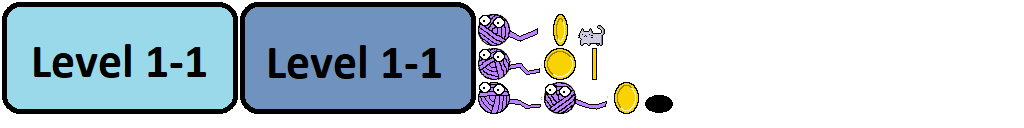
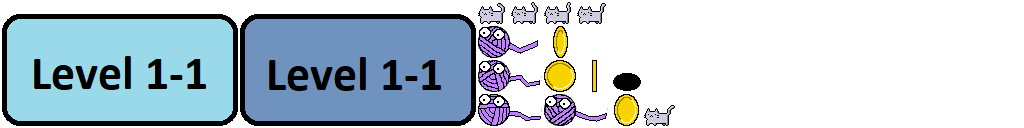
fixed box2d impassable bug and added cat idle animation

Changed region(s): [[0.0, 0.0, 0.6562, 1.0], [0.25, 0.3438, 0.4375, 0.7188], [0.0312, 0.3438, 0.2188, 0.7188]]

diff --git a/core/src/com/sandra/game/utils/box2D.java b/core/src/com/sandra/game/utils/box2D.java
@@ -1,11 +1,20 @@
 package com.sandra.game.utils;
 
+import com.badlogic.gdx.maps.MapObject;
+import com.badlogic.gdx.maps.objects.RectangleMapObject;
+import com.badlogic.gdx.maps.tiled.TiledMap;
+import com.badlogic.gdx.math.Vector2;
 import com.badlogic.gdx.physics.box2d.Body;
 import com.badlogic.gdx.physics.box2d.BodyDef;
 import com.badlogic.gdx.physics.box2d.FixtureDef;
 import com.badlogic.gdx.physics.box2d.PolygonShape;
 import com.badlogic.gdx.physics.box2d.World;
 import com.badlogic.gdx.physics.box2d.BodyDef.BodyType;
+
+/* 
+    Utility class for Box2D world implementations for levels.
+    @author Sandra Moen
+*/
 
 public class box2D {
 
@@ -15,8 +24,33 @@ public class box2D {
         this.b2d_world = b2d_world;
     }
 
-    public void set_world_bounds() {
+    public void set_world_impassables(TiledMap map) {
+        for (MapObject object : map.getLayers().get("impassable").getObjects().getByType(RectangleMapObject.class)) {
+            Vector2 position = new Vector2(((RectangleMapObject) object).getRectangle().getX() / Constants.PPM,
+                    ((RectangleMapObject) object).getRectangle().getY() / Constants.PPM);
+            float width = ((RectangleMapObject) object).getRectangle().getWidth() / Constants.PPM;
+            float height = ((RectangleMapObject) object).getRectangle().getHeight() / Constants.PPM;
 
+            BodyDef bdef = new BodyDef();
+            bdef.type = BodyType.StaticBody;
+            bdef.position.set(
+                position.x + width / 2,
+                position.y + height / 2
+            );
+
+            PolygonShape shape = new PolygonShape();
+            shape.setAsBox(width / 2, height / 2);
+            FixtureDef fdef = new FixtureDef();
+            fdef.shape = shape;
+            fdef.filter.categoryBits = Constants.B2D_BIT_WORLD;
+            fdef.filter.maskBits = Constants.B2D_BIT_CAT1S | Constants.B2D_YARN_BALLS;
+
+            Body world_lower = b2d_world.createBody(bdef);
+            world_lower.createFixture(fdef).setUserData(Constants.B2D_IDENTITY);
+        }
+    }
+
+    public void set_world_bounds() {
         // LOWER--------------------------------
 		BodyDef bdef = new BodyDef();
         bdef.type = BodyType.StaticBody;
@@ -74,10 +108,6 @@ public class box2D {
             (Constants.GAME_WIDTH + Constants.B2D_WORLD_BOUNDS_OFFSET) / Constants.PPM,
             (Constants.GAME_HEIGHT / 2) / Constants.PPM
         );
-
-        // bdef.position.set(Gdx.graphics.getWidth() + Constants.B2D_WORLD_BOUNDS_OFFSET / 2, Gdx.graphics.getHeight() / 2);
-
-        //shape.setAsBox(Constants.B2D_WORLD_BOUNDS_OFFSET, Gdx.graphics.getHeight());
 		fdef.shape = shape;
 		fdef.filter.categoryBits = Constants.B2D_BIT_WORLD;
 		fdef.filter.maskBits = Constants.B2D_BIT_CAT1S | Constants.B2D_YARN_BALLS;

diff --git a/core/src/com/sandra/game/screens/Level_1_1.java b/core/src/com/sandra/game/screens/Level_1_1.java
@@ -108,8 +108,8 @@ public class Level_1_1 implements Screen {
         map = new TmxMapLoader().load("levels/level1-1.tmx");
         mapRenderer = new OrthoCachedTiledMapRenderer(map, 1 / Constants.PPM, 8191); // 8191 is max
         mapRenderer.setView(camera);
-
-        create_world_boundaries();
+        
+        box2d.set_world_impassables(map);
 
         // Entities
         cat1s = new DelayedRemovalArray<Entity>();
@@ -128,32 +128,6 @@ public class Level_1_1 implements Screen {
         entities = new DelayedRemovalArray<Entity>();
         entities.addAll(cat1s);
         controls = new Controls(entities);
-    }
-
-    private void create_world_boundaries() {
-        for (MapObject object : map.getLayers().get("impassable").getObjects().getByType(RectangleMapObject.class)) {
-            Vector2 position = new Vector2(((RectangleMapObject) object).getRectangle().getX() / Constants.PPM,
-                    ((RectangleMapObject) object).getRectangle().getY() / Constants.PPM);
-            float width = ((RectangleMapObject) object).getRectangle().getWidth() / Constants.PPM;
-            float height = ((RectangleMapObject) object).getRectangle().getWidth() / Constants.PPM;
-
-            BodyDef bdef = new BodyDef();
-            bdef.type = BodyType.StaticBody;
-            bdef.position.set(
-                position.x + width / 2,
-                position.y + height / 2
-            );
-
-            PolygonShape shape = new PolygonShape();
-            shape.setAsBox(width / 2, height / 2);
-            FixtureDef fdef = new FixtureDef();
-            fdef.shape = shape;
-            fdef.filter.categoryBits = Constants.B2D_BIT_WORLD;
-            fdef.filter.maskBits = Constants.B2D_BIT_CAT1S | Constants.B2D_YARN_BALLS;
-
-            Body world_lower = b2d_world.createBody(bdef);
-            world_lower.createFixture(fdef).setUserData(Constants.B2D_IDENTITY);
-        }
     }
 
     private void populate_entity_from_map(String entity, DelayedRemovalArray<Entity> entity_list) {

diff --git a/core/src/com/sandra/game/entities/Cat1.java b/core/src/com/sandra/game/entities/Cat1.java
@@ -10,31 +10,34 @@ import com.badlogic.gdx.physics.box2d.FixtureDef;
 import com.badlogic.gdx.physics.box2d.PolygonShape;
 import com.badlogic.gdx.physics.box2d.World;
 import com.badlogic.gdx.physics.box2d.BodyDef.BodyType;
+import com.badlogic.gdx.utils.TimeUtils;
 import com.sandra.game.utils.Assets;
 import com.sandra.game.utils.Constants;
 import com.sandra.game.utils.Utils;
 
 public class Cat1 extends Entity {
-
     private World b2d_world;
+    private float animation_start_time;
 
     public Cat1(Vector2 position, World b2d_world) {
         render_position = position;
         velocity = new Vector2(0, 0);
         id = UUID.randomUUID().toString();
+        animation_start_time = TimeUtils.nanoTime();
         
         this.b2d_world = b2d_world;
         init_body();        
     }
 
     public void render(SpriteBatch batch) {
-        final TextureRegion region = Assets.instance.cat1Assets.cat1;
-        Utils.drawTextureRegion(batch, region, render_position, Constants.CAT1_CENTER);
+        float animation_time_seconds = Utils.secondsSince(animation_start_time);
+        TextureRegion region = Assets.instance.cat1Assets.cat1_animation.getKeyFrame(animation_time_seconds);
+        Utils.drawTextureRegion(batch, region, render_position); 
     }
 
     public void update(float delta) {
         if (body.getUserData() == "collision") {
-            body.setUserData(Constants.CAT1_SPRITE);
+            body.setUserData(Constants.CAT1_SPRITE_1);
             velocity.x = velocity.y = 0;
         }
         render_position.set(
@@ -67,7 +70,7 @@ public class Cat1 extends Entity {
 
 		this.body = b2d_world.createBody(bdef);
         this.body.setLinearDamping(Constants.ENTITIES_LINEAR_DAMPING);
-        this.body.createFixture(fdef).setUserData(Constants.CAT1_SPRITE);
+        this.body.createFixture(fdef).setUserData(Constants.CAT1_SPRITE_1);
     }    
 }
     

diff --git a/core/src/com/sandra/game/handlers/MyContactListener.java b/core/src/com/sandra/game/handlers/MyContactListener.java
@@ -20,16 +20,16 @@ public class MyContactListener implements ContactListener{
 		// System.out.println(TAG + ": fb, " + fb.getUserData());
 		
 		if(fa.getUserData() != null && fa.getUserData().equals(Constants.B2D_IDENTITY) &&		// world vs cat1
-				fb.getUserData() != null && fb.getUserData().equals(Constants.CAT1_SPRITE)) {
+				fb.getUserData() != null && fb.getUserData().equals(Constants.CAT1_SPRITE_1)) {
 			fb.getBody().setUserData("collision");
 		}
 
-		if(fa.getUserData() != null && fa.getUserData().equals(Constants.CAT1_SPRITE) &&		// cat1 vs hole
+		if(fa.getUserData() != null && fa.getUserData().equals(Constants.CAT1_SPRITE_1) &&		// cat1 vs hole
 				fb.getUserData() != null && fb.getUserData().equals(Constants.HOLE_SPRITE)) {
 			fa.getBody().setUserData("win_condition");
 		}
 
-		if(fa.getUserData() != null && fa.getUserData().equals(Constants.CAT1_SPRITE) &&		// coins vs cat1
+		if(fa.getUserData() != null && fa.getUserData().equals(Constants.CAT1_SPRITE_1) &&		// coins vs cat1
 				fb.getUserData() != null && fb.getUserData().equals(Constants.COIN_SPRITE_1)) {
 			fb.getBody().setUserData("remove_me");
 		}
@@ -39,7 +39,7 @@ public class MyContactListener implements ContactListener{
 			fb.getBody().setUserData("collision");
 		}
 
-		if(fa.getUserData() != null && fa.getUserData().equals(Constants.CAT1_SPRITE) &&		// cat vs yarn ball
+		if(fa.getUserData() != null && fa.getUserData().equals(Constants.CAT1_SPRITE_1) &&		// cat vs yarn ball
 				fb.getUserData() != null && fb.getUserData().equals(Constants.YARN_BALL_SPRITE_1)) {
 			fb.getBody().setUserData("collision");
 		}

diff --git a/core/src/com/sandra/game/utils/Assets.java b/core/src/com/sandra/game/utils/Assets.java
@@ -45,7 +45,9 @@ public class Assets implements Disposable, AssetErrorListener {
 	}
 
 	@Override
-	public void dispose() {assetManager.dispose();}
+	public void dispose() {
+        assetManager.dispose();
+    }
 
     public class ButtonsAssets {
         public final AtlasRegion button;
@@ -58,10 +60,17 @@ public class Assets implements Disposable, AssetErrorListener {
     }
 
     public class Cat1Assets {
-        public final AtlasRegion cat1;
+        public final Animation<TextureRegion> cat1_animation;
 
         public Cat1Assets(TextureAtlas atlas) {
-            cat1 = atlas.findRegion(Constants.CAT1_SPRITE);
+            Array<TextureRegion> cat1_frames = new Array<TextureRegion>();
+            cat1_frames.add(atlas.findRegion(Constants.CAT1_SPRITE_1));
+            cat1_frames.add(atlas.findRegion(Constants.CAT1_SPRITE_2));
+            cat1_frames.add(atlas.findRegion(Constants.CAT1_SPRITE_3));
+            cat1_frames.add(atlas.findRegion(Constants.CAT1_SPRITE_4));
+            cat1_frames.add(atlas.findRegion(Constants.CAT1_SPRITE_5));
+
+            cat1_animation = new Animation<TextureRegion>(Constants.CAT1_LOOP_DURATION, cat1_frames, PlayMode.LOOP_PINGPONG);
         }
     }
 

diff --git a/core/src/com/sandra/game/utils/Constants.java b/core/src/com/sandra/game/utils/Constants.java
@@ -40,10 +40,15 @@ public class Constants {
     public static final float COIN_PIXEL_HEIGHT = 32;
 
     // Cat1
-    public static final String CAT1_SPRITE = "cat1";
+    public static final String CAT1_SPRITE_1 = "cat11";
+    public static final String CAT1_SPRITE_2 = "cat12";
+    public static final String CAT1_SPRITE_3 = "cat13";
+    public static final String CAT1_SPRITE_4 = "cat14";
+    public static final String CAT1_SPRITE_5 = "cat15";
+    public static final float CAT1_LOOP_DURATION = .15f;
     public static final Vector2 CAT1_CENTER = new Vector2(0, 0);
     public static final float CAT1_MOVE_SPEED = 50f;
-    public static final float CAT1_PIXEL_WIDTH = 27f;
+    public static final float CAT1_PIXEL_WIDTH = 31f;
     public static final float CAT1_PIXEL_HEIGHT = 21f;
     public static final float CAT1_DENSITY = 1.0f;
     public static final float CAT1_RESTITUTION = .1f;

diff --git a/core/src/com/sandra/game/Cat_game.java b/core/src/com/sandra/game/Cat_game.java
@@ -13,9 +13,9 @@ public class Cat_game extends Game {
 	@Override
 	public void create() {
 		batch = new SpriteBatch();
-		setScreen(new Splash_intro(this));
+		// setScreen(new Splash_intro(this));
 		// setScreen(new Menu(this));
-		// setScreen(new Level_1_1(this));
+		setScreen(new Level_1_1(this));
 	}
 
 	public void render() {
